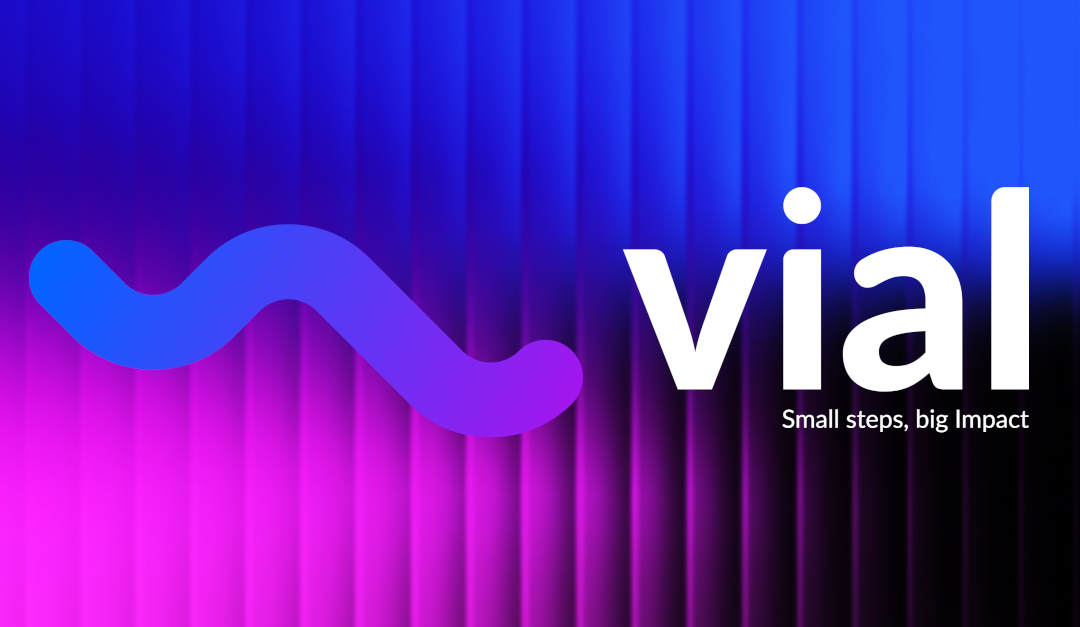
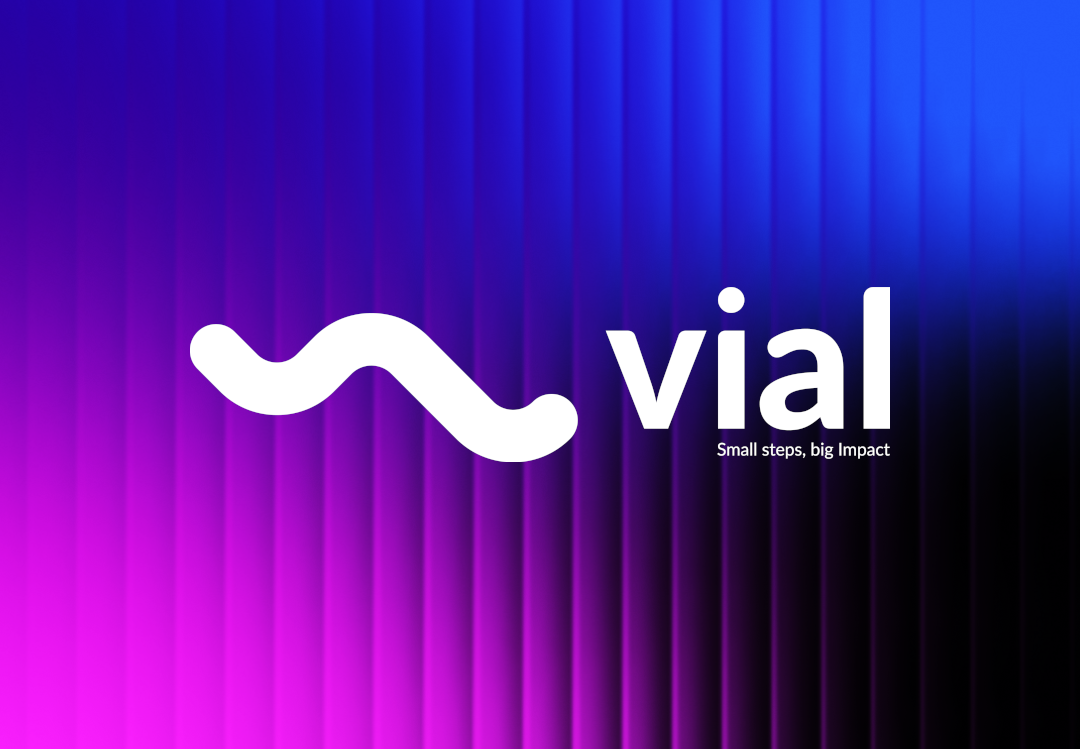
fix thumbnail

diff --git a/blog/index.html b/blog/index.html
@@ -14,10 +14,6 @@
   <meta charset="UTF-8">
   <meta http-equiv="X-UA-Compatible" content="IE=edge">
   <meta name="viewport" content="width=device-width, initial-scale=1.0">
-  <meta name="description" content="
-  VIAL is building with the future of the internet in mind. Our vision is of a world that is based on the
-  ownership economy, financial inclusion, transparency, and fair allocation of capital.
-">
 
   <link rel="stylesheet" href="../css/style.css" />
   <link rel="stylesheet" href="../css/accordionStyles.css" />
@@ -30,21 +26,41 @@
   <link rel="stylesheet" href="https://cdnjs.cloudflare.com/ajax/libs/font-awesome/6.0.0/css/all.min.css">
   <link rel="icon" type="image/x-icon" href="../assets/images/favicon-new.ico">
 
-  <meta property='og:title' content='Vial' />
-  <meta property='og:image' content='https://vial-landing-space.fra1.digitaloceanspaces.com/thumbnail.png' />
-  <meta property='og:description' content='VIAL is building with the future of the internet in mind. Our vision is of a world that is based on the
-  ownership economy, financial inclusion, transparency, and fair allocation of capital.' />
-  <meta property='og:url' content='https://vial.al/' />
-  <meta property='og:image:width' content='1200' />
-  <meta property='og:image:height' content='627' />
+
+  <!-- HTML Meta Tags -->
+  <title>Vial</title>
+  <meta name="description" content="
+  VIAL is building with the future of the internet in mind. Our vision is of a world that is based on the
+  ownership economy, financial inclusion, transparency, and fair allocation of capital.
+">
+
+  <!-- Facebook Meta Tags -->
+  <meta property="og:url" content="https://vial.al/">
+  <meta property="og:type" content="website">
+  <meta property="og:title" content="Vial">
+  <meta property="og:description" content="
+  VIAL is building with the future of the internet in mind. Our vision is of a world that is based on the
+  ownership economy, financial inclusion, transparency, and fair allocation of capital.
+">
+  <meta property="og:image" content="https://vial-landing-space.fra1.digitaloceanspaces.com/thumbnail.png">
+
+  <!-- Twitter Meta Tags -->
+  <meta name="twitter:card" content="summary_large_image">
+  <meta property="twitter:domain" content="vial.al">
+  <meta property="twitter:url" content="https://vial.al/">
+  <meta name="twitter:title" content="Vial">
+  <meta name="twitter:description" content="
+  VIAL is building with the future of the internet in mind. Our vision is of a world that is based on the
+  ownership economy, financial inclusion, transparency, and fair allocation of capital.
+">
+  <meta name="twitter:image" content="https://vial-landing-space.fra1.digitaloceanspaces.com/thumbnail.png">
+
   <!-- Fonts -->
   <link rel="preconnect" href="https://fonts.googleapis.com">
   <link rel="preconnect" href="https://fonts.gstatic.com" crossorigin>
   <link href="https://fonts.googleapis.com/css2?family=Outfit:wght@400;500;600;700&display=swap" rel="stylesheet">
   <!-- JQuery -->
   <script src="https://ajax.googleapis.com/ajax/libs/jquery/3.3.1/jquery.min.js"></script>
-
-  <title>Vial</title>
 </head>
 
 <body>
